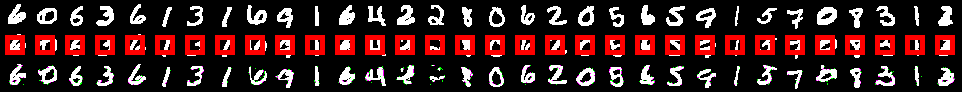
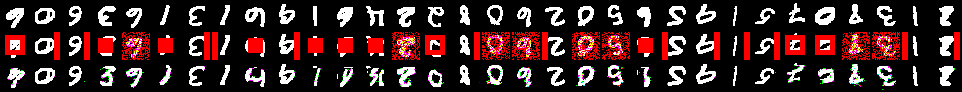
new mask types

Changed region(s): [[0.0, 0.3478, 0.9979, 0.6522], [0.0, 0.6957, 0.9979, 0.9565], [0.0, 0.0435, 0.9979, 0.3043]]

diff --git a/inpaint.py b/inpaint.py
@@ -13,6 +13,7 @@ from utils import *
 
 from tqdm import tqdm
 import wandb
+from random import randint
 
 # This is to hack some issue with PIL images - see
 # https://wandb.ai/pixelcnn/PixelCNN/runs/lfa9h4h9
@@ -31,9 +32,24 @@ TRAIN_SAMPLES_DIR = 'train_samples'
 
 cfg = getCFG()
 cfg.save_sample = True
+def randomMask(shape):
+	mask = torch.zeros(shape)
+	rng = randint(0,100)
+	if rng < 20:
+		mask[:,5:25,5:25]=1
+		mask[:,10:20,10:20]=0
+	elif rng < 40:
+		mask[:,7:22,7:22]=1
+	elif rng < 60:
+		mask[:,:,0:6]=1
+	elif rng < 80:
+		mask[:,:,-6:]=1
+	else:
+		mask += torch.randint(0,2,mask.shape)
+	return mask
+
 def inpaint_test(cfg, model, device, test_loader):
 	test_loss = 0
-
 
 	saveflag = cfg.save_sample
 	model.eval()
@@ -41,11 +57,12 @@ def inpaint_test(cfg, model, device, test_loader):
 		for images, labels in tqdm(test_loader, desc="Inpainting".ljust(20)):
 			images = images.to(device, non_blocking=True)
 			labels = labels.to(device, non_blocking=True)
-			mask = torch.zeros(images.shape[1:]).to(device,non_blocking=True)
-			mask[:,5:25,5:25]=1
-			mask[:,10:20,10:20]=0
-			C,H,W =mask.shape
-			mask = mask.unsqueeze(0).expand(images.shape[0],C,H,W)
+			# mask = torch.zeros(images.shape[1:]).to(device,non_blocking=True)
+			# mask[:,5:25,5:25]=1
+			# mask[:,10:20,10:20]=0
+			# C,H,W =mask.shape
+			# mask = mask.unsqueeze(0).expand(images.shape[0],C,H,W)
+			mask = torch.stack([randomMask(images.shape[1:]) for _ in range(images.shape[0])]).to(device)
 			red_mask = torch.clone(mask)
 			red_mask[:,1:,:,:]*=0
 

diff --git a/utils.py b/utils.py
@@ -99,9 +99,9 @@ def get_loaders(cfg, train_root, test_root):
 	])
 
 
-	dataset_mappings = {'mnist': 'MNIST', 'fashionmnist': 'FashionMNIST',
-	 'cifar': 'CIFAR10', 'celeba':'CelebA', 'celeba-faces':'CelebA-Faces'}
-	dataset_mappings = {'mnist-flip': 'MNIST', 'fashionmnist': 'FashionMNIST',
+	# dataset_mappings = {'mnist': 'MNIST', 'fashionmnist': 'FashionMNIST',
+	#  'cifar': 'CIFAR10', 'celeba':'CelebA', 'celeba-faces':'CelebA-Faces'}
+	dataset_mappings = {'mnist': 'MNIST', 'mnist-flip': 'MNIST', 'fashionmnist': 'FashionMNIST',
 	 'cifar': 'CIFAR10', 'celeba':'CelebA', 'celeba-faces':'CelebA-Faces'}
 	hw_mappings = {'mnist': (28, 28), 'mnist-flip':(28,28),'fashionmnist': (28, 28), 'cifar': (32, 32), 'celeba': (50,50)}
 	transform_mappings = {'mnist': to_rgb, 'mnist-flip':flipped, 'fashionmnist': transforms.Compose([
